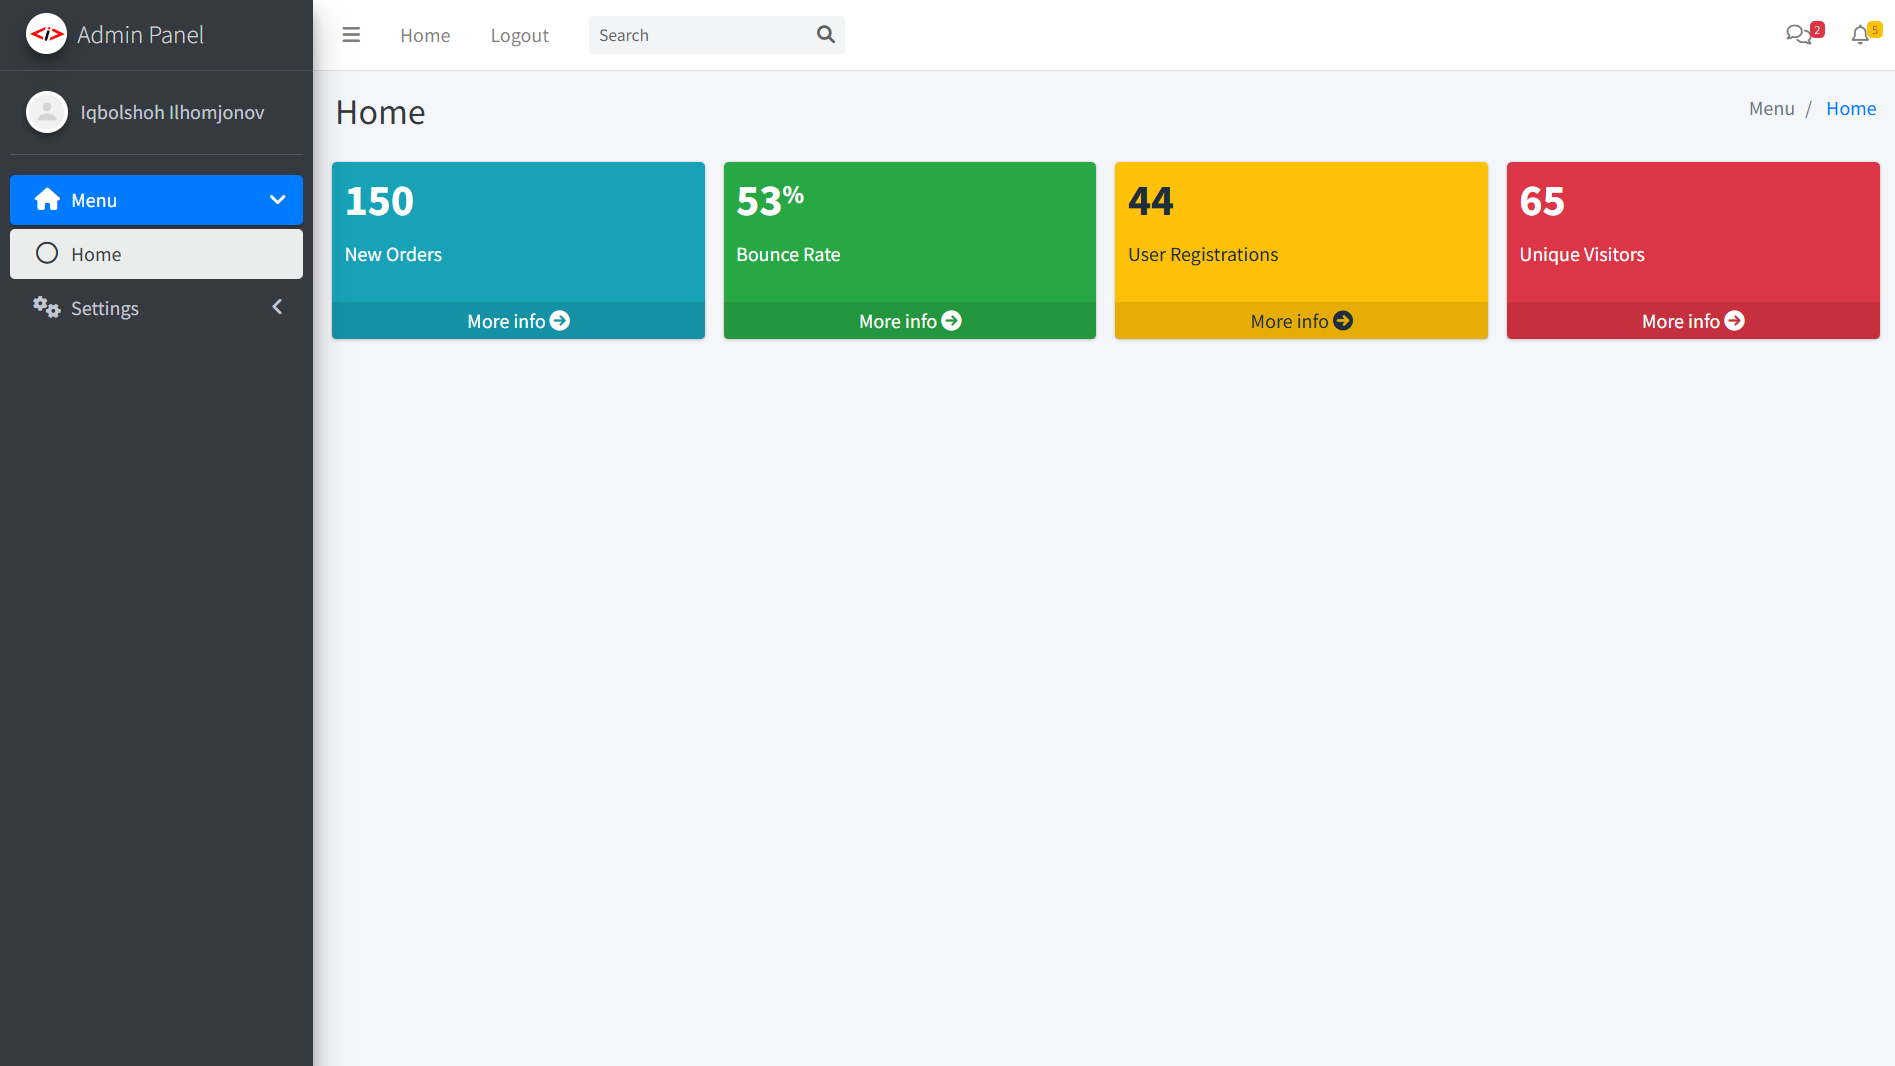
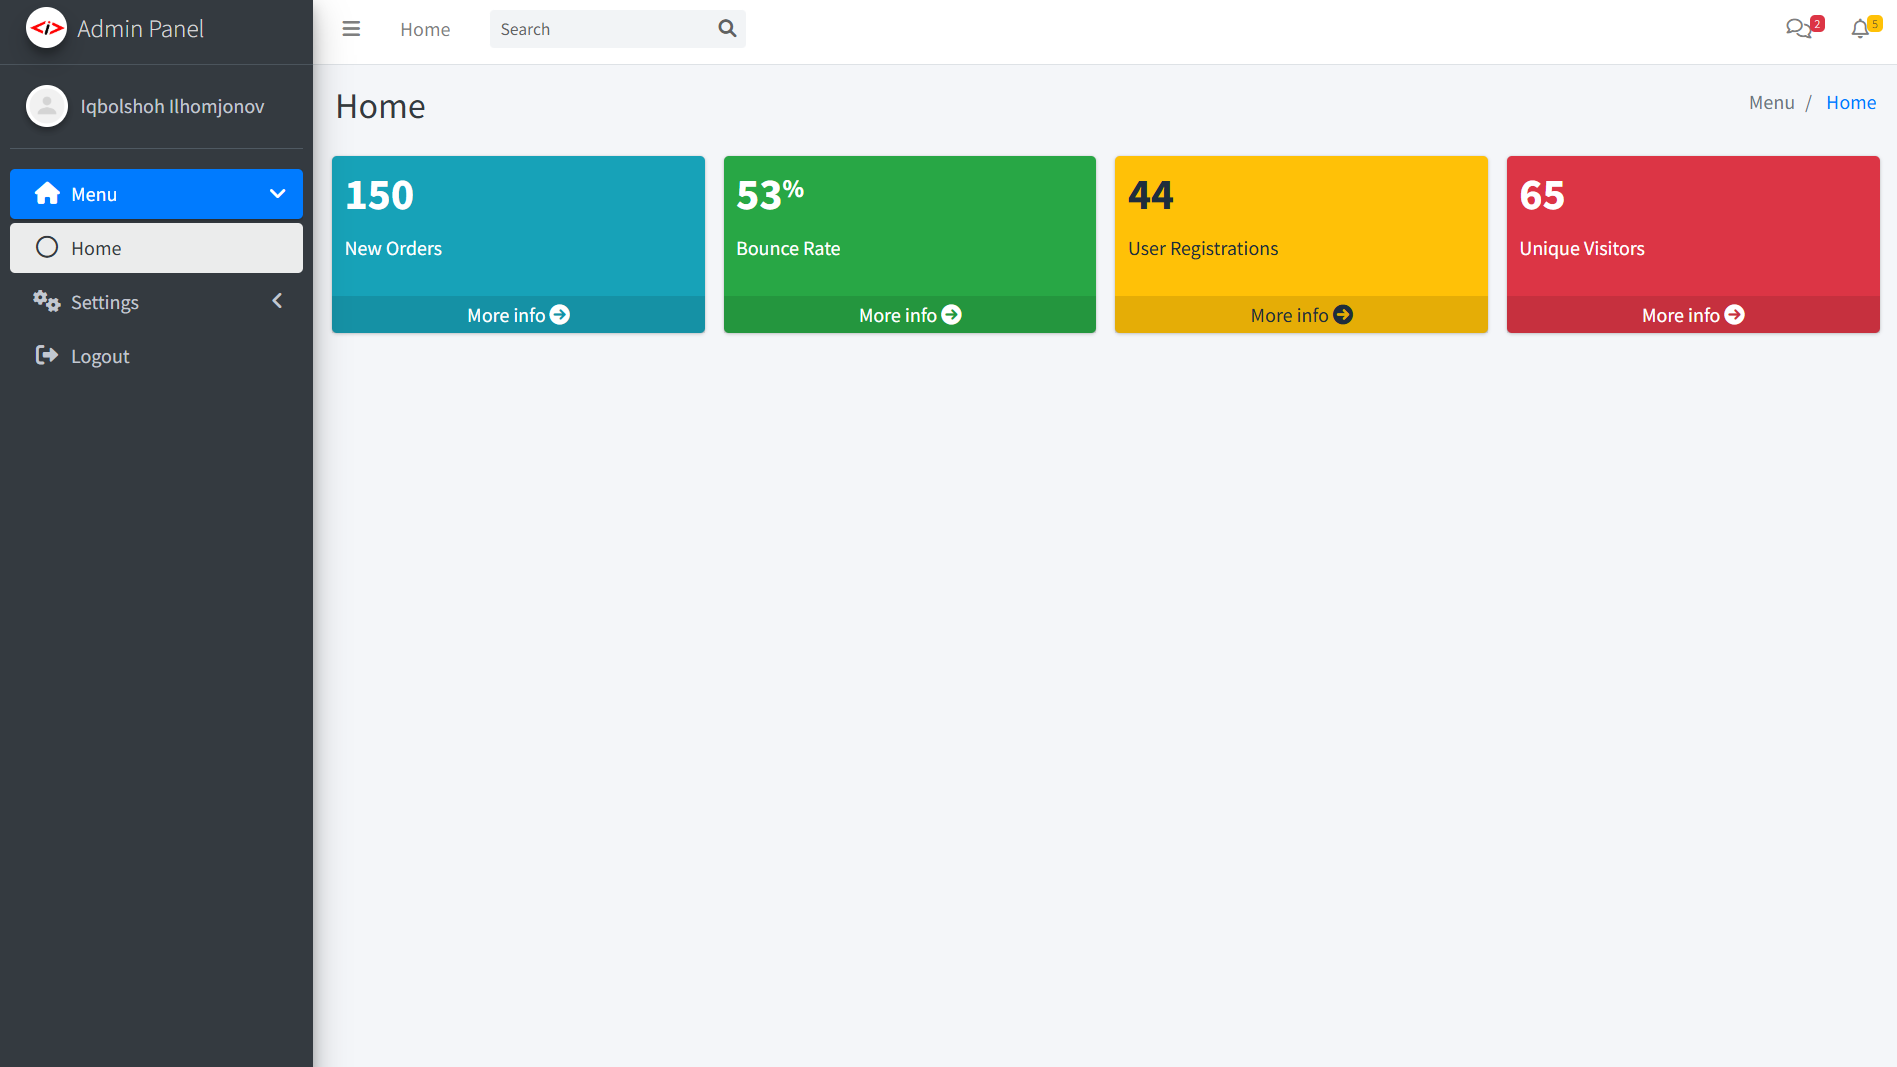
commit

diff --git a/header.php b/header.php
@@ -1,54 +1,44 @@
 <?php
 $currentPage = basename($_SERVER['SCRIPT_NAME']);
-$pageTitle = "";
-$breadcrumbItems = [];
 
 $menuItems = [
     [
         "menuTitle" => "Menu",
         "icon" => "fas fa-home",
         "pages" => [
-            ["title" => "Home", "url" => "index.php"],
-            ["title" => "About", "url" => "about.php"]
+            ["title" => "Home", "url" => "index.php"]
         ],
     ],
-    [
-        "menuTitle" => "Settings",
-        "icon" => "fas fa-cogs",
-        "pages" => [
-            ["title" => "Profile", "url" => "profile.php"],
-        ]
-    ]
+    // [
+    //     "menuTitle" => "Settings",
+    //     "icon" => "fas fa-cogs",
+    //     "pages" => [
+    //         ["title" => "Profile", "url" => "profile.php"],
+    //     ]
+    // ]
 ];
 
-function getActivePageInfo($menuItems, $currentPage)
-{
-    foreach ($menuItems as $menuItem) {
-        foreach ($menuItem['pages'] as $page) {
-            if ($currentPage === $page['url']) {
-                return [
-                    "breadcrumbItems" => [
-                        ["title" => $menuItem['menuTitle'], "url" => "#"],
-                        ["title" => $page['title'], "url" => $page['url']]
-                    ],
-                    "pageTitle" => $page['title'],
-                    "activeMenu" => $menuItem,
-                    "activePage" => $page
-                ];
-            }
+$activePageInfo = array_reduce($menuItems, function ($carry, $menuItem) use ($currentPage) {
+    foreach ($menuItem['pages'] as $page) {
+        if ($currentPage === $page['url']) {
+            return [
+                "breadcrumbItems" => [
+                    ["title" => $menuItem['menuTitle'], "url" => "#"],
+                    ["title" => $page['title'], "url" => $page['url']]
+                ],
+                "pageTitle" => $page['title'],
+                "activeMenu" => $menuItem,
+                "activePage" => $page
+            ];
         }
     }
-    return null;
-}
+    return $carry;
+}, null);
 
-$activePageInfo = getActivePageInfo($menuItems, $currentPage);
-
-if ($activePageInfo) {
-    $breadcrumbItems = $activePageInfo['breadcrumbItems'];
-    $pageTitle = $activePageInfo['pageTitle'];
-    $activeMenu = $activePageInfo['activeMenu'];
-    $activePage = $activePageInfo['activePage'];
-}
+$breadcrumbItems = $activePageInfo['breadcrumbItems'] ?? [];
+$pageTitle = $activePageInfo['pageTitle'] ?? '';
+$activeMenu = $activePageInfo['activeMenu'] ?? null;
+$activePage = $activePageInfo['activePage'] ?? null;
 ?>
 
 <!DOCTYPE html>
@@ -57,19 +47,16 @@ if ($activePageInfo) {
 <head>
     <meta charset="UTF-8">
     <meta name="viewport" content="width=device-width, initial-scale=1.0">
-    <title><?= ($pageTitle) ?></title>
+    <title><?= $pageTitle ?></title>
     <link href="https://cdnjs.cloudflare.com/ajax/libs/font-awesome/6.0.0-beta3/css/all.min.css" rel="stylesheet">
 </head>
 
 <body>
     <nav class="main-header navbar navbar-expand navbar-white navbar-light">
         <ul class="navbar-nav">
-            <li class="nav-item">
-                <a class="nav-link" data-widget="pushmenu" role="button"><i class="fas fa-bars"></i></a>
-            </li>
-            <li class="nav-item d-none d-sm-inline-block">
-                <a href="./" class="nav-link">Home</a>
-            </li>
+            <li class="nav-item"><a class="nav-link" data-widget="pushmenu" role="button"><i
+                        class="fas fa-bars"></i></a></li>
+            <li class="nav-item d-none d-sm-inline-block"><a href="./" class="nav-link">Home</a></li>
         </ul>
         <form class="form-inline ml-3">
             <div class="input-group input-group-sm">
@@ -80,18 +67,10 @@ if ($activePageInfo) {
             </div>
         </form>
         <ul class="navbar-nav ml-auto">
-            <li class="nav-item dropdown">
-                <a class="nav-link" href="#messages">
-                    <i class="far fa-comments"></i>
-                    <span class="badge badge-danger navbar-badge">2</span>
-                </a>
-            </li>
-            <li class="nav-item dropdown">
-                <a class="nav-link" href="#notifications">
-                    <i class="far fa-bell"></i>
-                    <span class="badge badge-warning navbar-badge">5</span>
-                </a>
-            </li>
+            <li class="nav-item dropdown"><a class="nav-link" href="#messages"><i class="far fa-comments"></i><span
+                        class="badge badge-danger navbar-badge">2</span></a></li>
+            <li class="nav-item dropdown"><a class="nav-link" href="#notifications"><i class="far fa-bell"></i><span
+                        class="badge badge-warning navbar-badge">5</span></a></li>
         </ul>
     </nav>
 
@@ -99,13 +78,13 @@ if ($activePageInfo) {
         <div class="content-header">
             <div class="row mb-2">
                 <div class="col-sm-6">
-                    <h1 class="m-0 text-dark"><?= ($pageTitle) ?></h1>
+                    <h1 class="m-0 text-dark"><?= $pageTitle ?></h1>
                 </div>
                 <div class="col-sm-6">
                     <ol class="breadcrumb float-sm-right">
                         <?php foreach ($breadcrumbItems as $item): ?>
                             <li class="breadcrumb-item <?= $item['url'] === '#' ? 'active' : '' ?>">
-                                <?= $item['url'] === '#' ? ($item['title']) : "<a href='" . ($item['url']) . "'>" . ($item['title']) . "</a>" ?>
+                                <?= $item['url'] === '#' ? $item['title'] : "<a href='{$item['url']}'>{$item['title']}</a>" ?>
                             </li>
                         <?php endforeach; ?>
                     </ol>
@@ -121,34 +100,27 @@ if ($activePageInfo) {
         </a>
         <div class="sidebar">
             <div class="user-panel mt-3 pb-3 mb-3 d-flex">
-                <div class="image">
-                    <img src="./src/images/default.png" class="img-circle elevation-2" alt="User Image">
+                <div class="image"><img src="./src/images/default.png" class="img-circle elevation-2" alt="User Image">
                 </div>
-                <div class="info">
-                    <a href="./" class="d-block">Iqbolshoh Ilhomjonov</a>
-                </div>
+                <div class="info"><a href="./" class="d-block">Iqbolshoh Ilhomjonov</a></div>
             </div>
             <nav class="mt-2">
                 <ul class="nav nav-pills nav-sidebar flex-column" data-widget="treeview" role="menu">
                     <?php foreach ($menuItems as $menuItem): ?>
-                        <li
-                            class="nav-item has-treeview <?= isset($activeMenu) && $menuItem === $activeMenu ? 'menu-open' : '' ?>">
-                            <a class="nav-link <?= isset($activeMenu) && $menuItem === $activeMenu ? 'active' : '' ?>"
-                                href="#">
-                                <i class="nav-icon <?= ($menuItem['icon']) ?>"></i>
-                                <p>
-                                    <?= ($menuItem['menuTitle']) ?>
-                                    <?= !empty($menuItem['pages']) ? '<i class="right fas fa-angle-left"></i>' : '' ?>
-                                </p>
+                        <li class="nav-item has-treeview <?= $menuItem === $activeMenu ? 'menu-open' : '' ?>">
+                            <a class="nav-link <?= $menuItem === $activeMenu ? 'active' : '' ?>" href="#">
+                                <i class="nav-icon <?= $menuItem['icon'] ?>"></i>
+                                <p><?= $menuItem['menuTitle'] ?>
+                                    <?= !empty($menuItem['pages']) ? '<i class="right fas fa-angle-left"></i>' : '' ?></p>
                             </a>
                             <?php if (!empty($menuItem['pages'])): ?>
                                 <ul class="nav nav-treeview">
                                     <?php foreach ($menuItem['pages'] as $page): ?>
                                         <li class="nav-item">
-                                            <a href="<?= ($page['url']) ?>"
-                                                class="nav-link <?= isset($activePage) && $page === $activePage ? 'active' : '' ?>">
+                                            <a href="<?= $page['url'] ?>"
+                                                class="nav-link <?= $page === $activePage ? 'active' : '' ?>">
                                                 <i class="far fa-circle nav-icon"></i>
-                                                <p><?= ($page['title']) ?></p>
+                                                <p><?= $page['title'] ?></p>
                                             </a>
                                         </li>
                                     <?php endforeach; ?>
